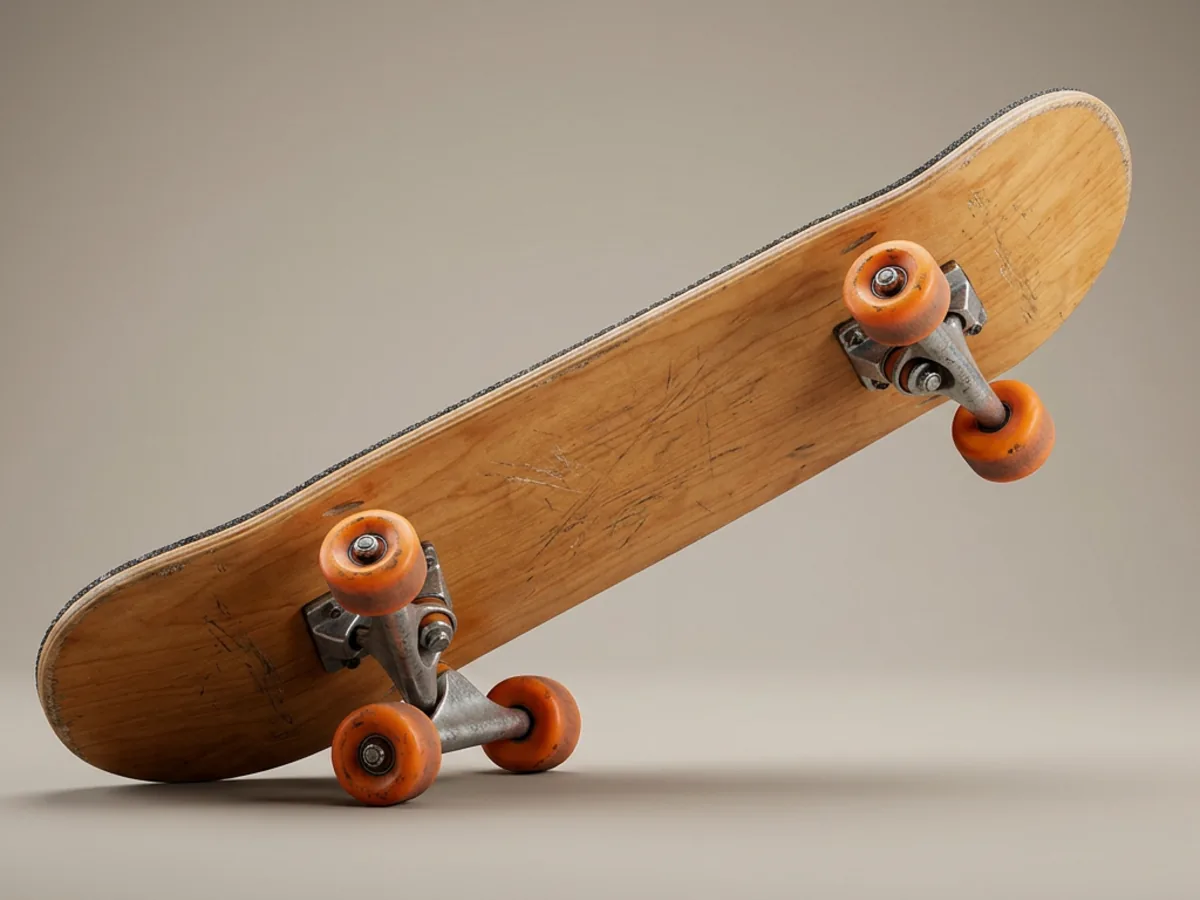
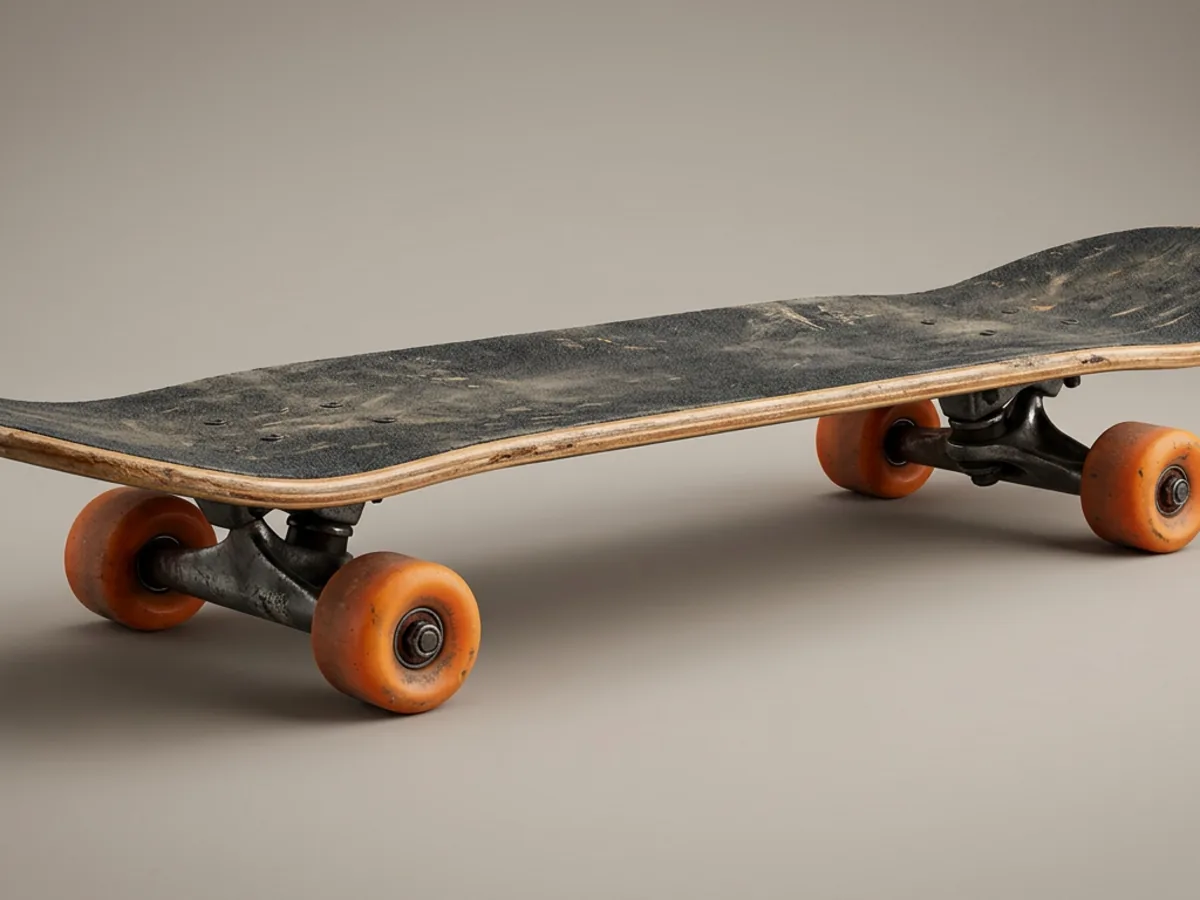
Студийные снимки: вкусняшки, самолёты и пересъёмка скейта с четырьмя колёсами

diff --git a/tests/cards-ui.test.tsx b/tests/cards-ui.test.tsx
@@ -52,11 +52,23 @@ export async function runShopCardChecks() {
     ['Питомцы', 'pet'],
     ['Спорт', 'sport'],
     ['Вкусняшки', 'food'],
+    ['Самолёты', 'plane'],
   ];
   let photoCards: (Element | undefined)[] = [];
   for (const [title, kind] of shelves) {
     await goBuk();
-    click(shelf(title)!);
+    // Самолёты, корабли и телефоны живут вкладками внутри полки «Техника»,
+    // а питомцы/спорт/вкусняшки — отдельными полками. Открываем и так, и так.
+    if (!shelf(title)) {
+      click(shelf('Техника')!);
+      await sleep(60);
+      const tab = Array.from(document.querySelectorAll('.shop-toy-cats [role="tab"]')).find((el) =>
+        (el.textContent ?? '').includes(title),
+      ) as HTMLButtonElement | undefined;
+      click(tab);
+    } else {
+      click(shelf(title)!);
+    }
     await sleep(60);
     const cards = Array.from(document.querySelectorAll('.shop-item.toy-item'));
     const inShelf = PRODUCT_PHOTOS.filter((id) => TOY_ITEMS.find((item) => item.id === id)?.toy === kind);
@@ -73,7 +85,6 @@ export async function runShopCardChecks() {
     );
     photoCards = photoCards.concat(withPhoto);
   }
-
   // Перевод на фото идёт полками, и это видно в тесте: список ожидания
   // сокращается с каждой партией. Если кто-то вернёт рисунок вместо готового
   // снимка, проверка упадёт и напомнит, что полка уже переехала в студию.
@@ -82,7 +93,7 @@ export async function runShopCardChecks() {
   ).map((item) => item.id);
   check(
     'фото товаров: без снимков остались только запланированные товары',
-    stillDrawn.join(',') === 'food-icecream,food-cake',
+    stillDrawn.join(',') === '',
     stillDrawn.join(', ') || 'ни одного',
   );
   check(

diff --git a/src/ui/ProductPhoto.tsx b/src/ui/ProductPhoto.tsx
@@ -49,6 +49,15 @@ export const PRODUCT_PHOTOS: readonly string[] = [
   // Вкусняшки
   'food-donut',
   'food-kulich',
+  'food-icecream',
+  'food-cake',
+  // Самолёты
+  'plane-swift',
+  'plane-electron-base',
+  'plane-arctic-base',
+  'plane-moon-base',
+  'plane-atomic-base',
+  'plane-steam-base',
 ];
 
 const PHOTOS = new Set(PRODUCT_PHOTOS);

diff --git a/docs/RELEASE-0.78.0.md b/docs/RELEASE-0.78.0.md
@@ -1,7 +1,7 @@
-# 0.78.0 — фотореализм: все питомцы, спорт и вкусняшки
+# 0.78.0 — фотореализм: питомцы, спорт, вкусняшки и самолёты
 
 Продолжение 0.77.0: карточка уже показывает крупный снимок во всю ширину,
-теперь студия переехала ещё на две полки и полностью закрыла питомцев.
+теперь в студии сняты все питомцы, спорт, вкусняшки и самолёты.
 
 ## Что изменилось
 
@@ -9,12 +9,17 @@
   к десяти снимкам из прошлой партии: у всех тринадцати зверей — настоящая
   шерсть, блики в глазах, мягкая тень под лапами. Векторных зверей на полке
   больше нет.
-- **Спорт:** футбольный мяч с потёртой кожей и видимыми швами, скейт с
+- **Спорт (4):** футбольный мяч с потёртой кожей и видимыми швами, скейт с
   натуральным клёном и оранжевыми колёсами, пара гантелей с металлическими
   бликами, ракетка с натянутой струнной сеткой и мячом.
-- **Вкусняшки:** пончик с глазурью и посыпкой и кулич с подтёками глазури.
-  Мороженое и торт остаются на следующую партию — генератор в этой партии
-  не отдал кадр.
+- **Вкусняшки — все четыре:** пончик с глазурью и посыпкой, кулич с подтёками
+  глазури, рожок с тремя шариками мороженого и трёхъярусный торт со свечками.
+- **Самолёты — все шесть:** пассажирский джет, схемолёт с солнечными панелями,
+  полярный исследователь на лыжном шасси, серебристый лунный самолёт, тяжёлый
+  атомный дозор с бирюзовым контуром и стимпанк-биплан «Паролёт» с медными
+  крыльями, латунными заклёпками и струйкой пара.
+- **Скейт перегенерирован:** у прошлого кадра генератор нарисовал пять колёс.
+  Новый снят сверху-сбоку, у него ровно две подвески и четыре колеса.
 - Все снимки идут через один конвейер `scripts/make-product-images.mjs`
   (1200×900, WebP): широкий кадр режется по полям, вертикальный вписывается
   целиком на продолженный фон студии.
@@ -24,12 +29,12 @@
 - Блок `tests/cards-ui.test.tsx` стал полко-зависимым: фото проверяются на
   каждой полке отдельно, «снимок вместо рисунка» — свойство товара, а не всей
   витрины. Добавлен **список ожидания**: товары, которые ещё рисуются
-  вектором, перечислены явно (`food-icecream`, `food-cake`). Если кто-то
-  вернёт рисунок на уже переехавшую полку, проверка упадёт.
+  вектором. На 0.78.0 список пуст: питомцы, спорт, вкусняшки и самолёты
+  целиком в студии. Если кто-то вернёт рисунок на уже переехавшую полку,
+  проверка упадёт.
 - `npm run typecheck`, `npm run test:smoke` — все проверки пройдены.
 
 ## Дальше
 
-Мороженое и торт, затем техника: 18 автомобилей, 5 самолётов, 5 кораблей,
-11 позиций электроники и 4 базы. Подключение — дописывание id в
-`PRODUCT_PHOTOS`, правок вёрстки не требуется.
+Корабли (5), электроника (11), 18 автомобилей и 4 базы. Подключение —
+дописывание id в `PRODUCT_PHOTOS`, правок вёрстки не требуется.
